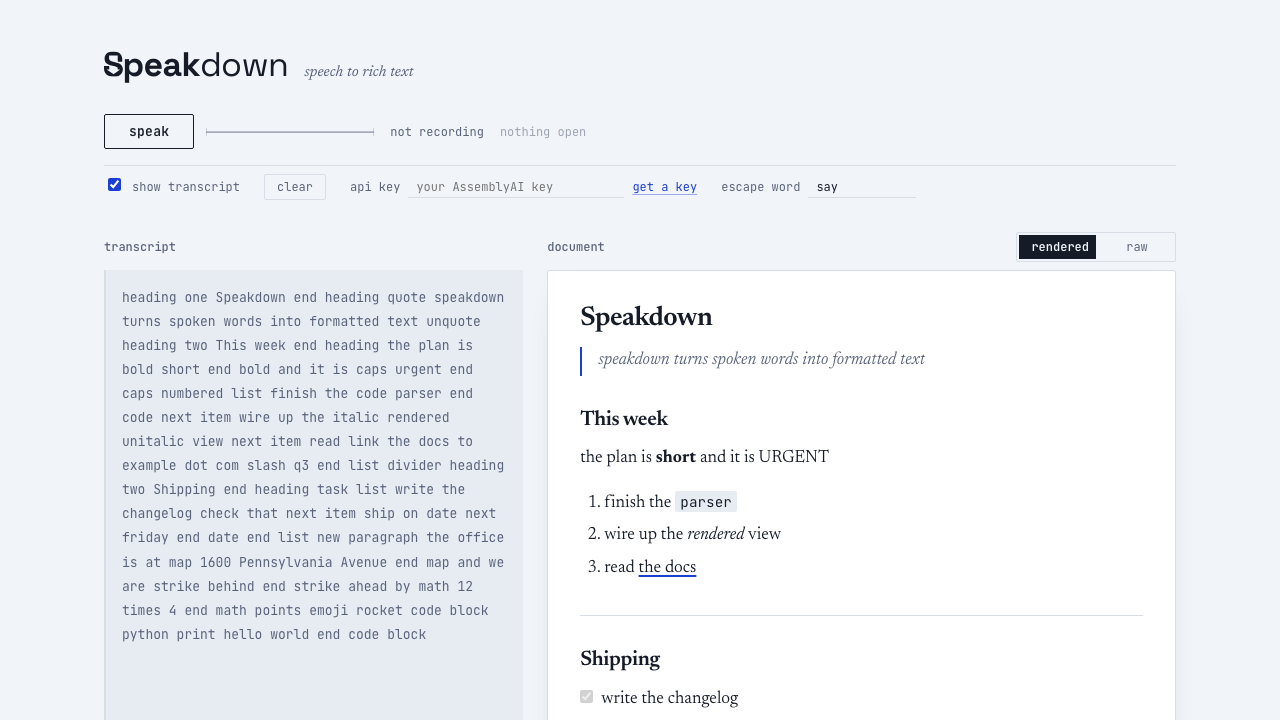
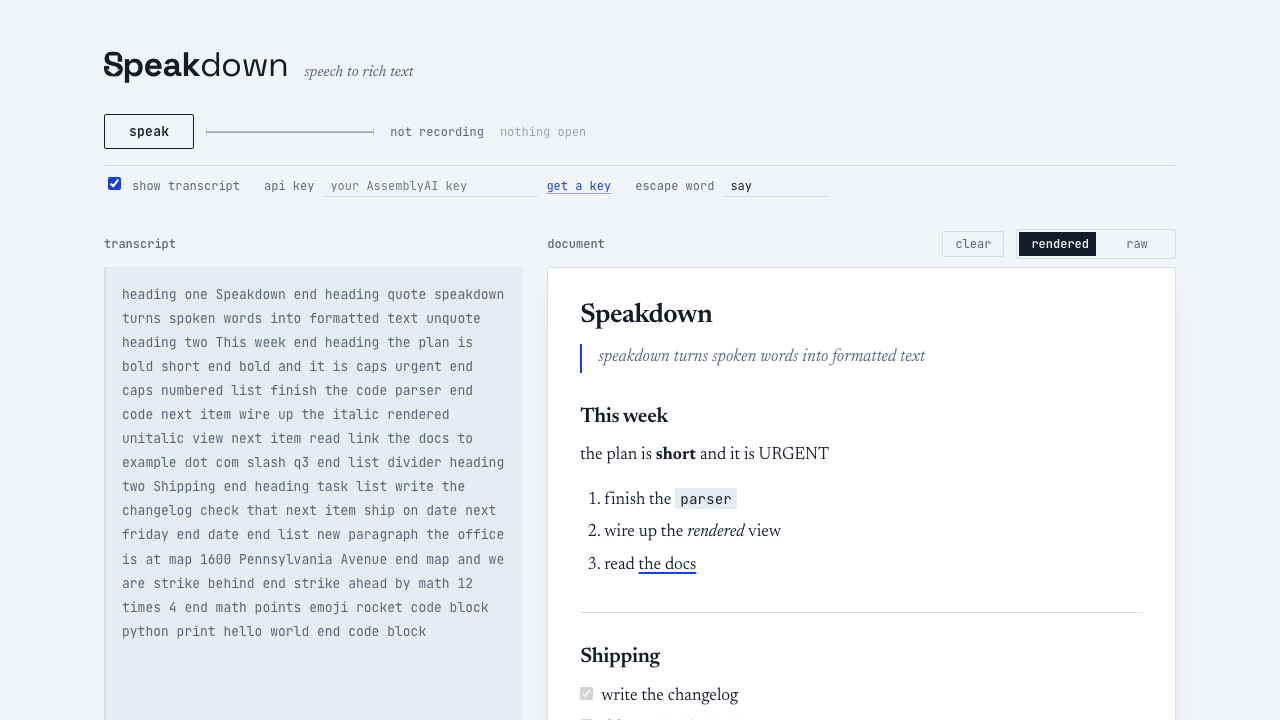
Put clear beside the rendered/raw switch
It was next to the transcript toggle, which was not the toggle meant. Both
clear and the view switch act on what the document panel is showing, so they
belong together on its header.

diff --git a/src/ui/Editor.tsx b/src/ui/Editor.tsx
@@ -22,6 +22,8 @@ interface EditorProps {
   readOnly: boolean;
   /** False hides the transcript; the document keeps its place and widens. */
   transcriptOpen: boolean;
+  onClear: () => void;
+  canClear: boolean;
   /** True while the microphone is actually picking up speech. */
   speaking: boolean;
 }
@@ -102,6 +104,8 @@ export function Editor({
   readOnly,
   transcriptOpen,
   speaking,
+  onClear,
+  canClear,
 }: EditorProps) {
   const documentRef = useResolution(html);
   const isEmpty = html.length === 0;
@@ -132,7 +136,13 @@ export function Editor({
       <section className="document">
         <div className="document-head">
           <h2 className="panel-label">document</h2>
-          <ViewSwitch view={view} onViewChange={onViewChange} />
+
+          <div className="document-actions">
+            <button type="button" className="ghost-button" onClick={onClear} disabled={!canClear}>
+              clear
+            </button>
+            <ViewSwitch view={view} onViewChange={onViewChange} />
+          </div>
         </div>
 
         <div className="page">

diff --git a/src/ui/Settings.tsx b/src/ui/Settings.tsx
@@ -1,7 +1,6 @@
 /**
  * Settings.tsx — the controls that are not part of composing: whether the
- * transcript is visible, clearing it, the API key, and which word escapes a
- * command.
+ * transcript is visible, the API key, and which word escapes a command.
  *
  * Kept out of the instrument bar so that bar stays about the voice.
  */
@@ -9,8 +8,6 @@
 import { ApiKeyField } from "./ApiKeyField.js";
 
 interface SettingsProps {
-  onClear: () => void;
-  canClear: boolean;
   apiKey: string;
   onApiKeyChange: (value: string) => void;
   escapeInput: string;
@@ -21,8 +18,6 @@ interface SettingsProps {
 }
 
 export function Settings({
-  onClear,
-  canClear,
   apiKey,
   onApiKeyChange,
   escapeInput,
@@ -45,11 +40,6 @@ export function Settings({
         />
         show transcript
       </label>
-
-      {/* Beside the toggle, because both are about the transcript. */}
-      <button type="button" className="ghost-button" onClick={onClear} disabled={!canClear}>
-        clear
-      </button>
 
       <ApiKeyField apiKey={apiKey} onApiKeyChange={onApiKeyChange} />
 

diff --git a/src/ui/App.tsx b/src/ui/App.tsx
@@ -154,8 +154,6 @@ export function App() {
 
       <div className="chrome-row">
         <Settings
-          onClear={handleClearTranscript}
-          canClear={!live.isActive && transcript.length > 0}
           apiKey={apiKey}
           onApiKeyChange={setApiKey}
           escapeInput={escapeInput}
@@ -177,6 +175,8 @@ export function App() {
         readOnly={live.isActive}
         transcriptOpen={transcriptOpen}
         speaking={speaking}
+        onClear={handleClearTranscript}
+        canClear={!live.isActive && transcript.length > 0}
       />
 
       {(notices.length > 0 || clipboard.awaitingClipboard) && (

diff --git a/src/ui/styles.css b/src/ui/styles.css
@@ -438,6 +438,13 @@ body {
   margin: 0;
 }
 
+/* Clear sits beside the view switch, both acting on what is shown here. */
+.document-actions {
+  display: flex;
+  align-items: center;
+  gap: var(--s3);
+}
+
 /* The one raised surface on screen. This is where the boldness is spent. */
 .page {
   flex: 1;
